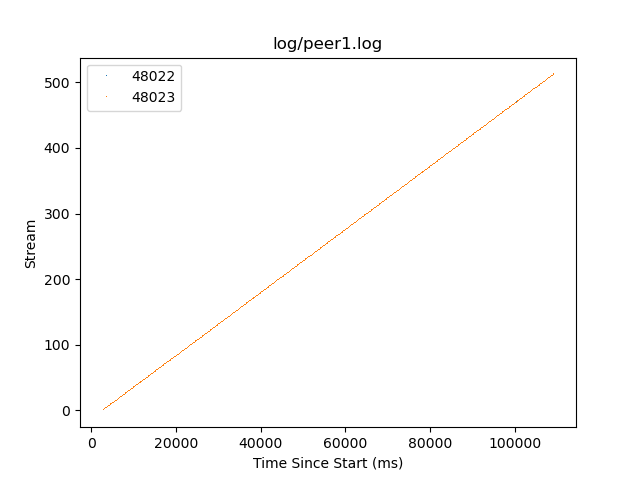
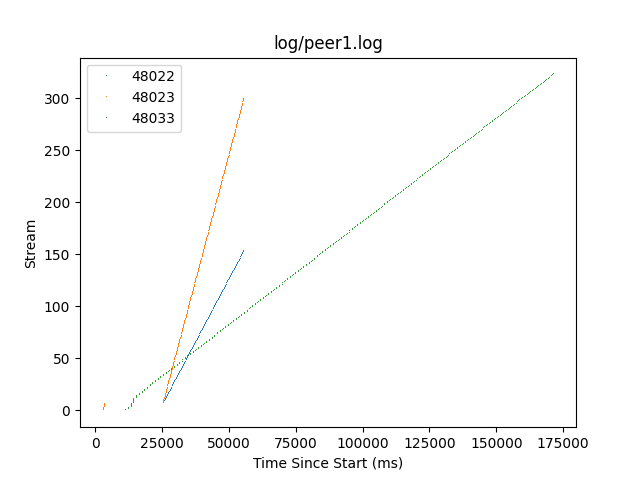
fix: 增加接受窗口，判断要不要收到错误seq

diff --git a/src/peer.py b/src/peer.py
@@ -265,16 +265,21 @@ def process_inbound_udp(sock: SimSocket):
 
 
     elif packet_type == PeerPacketType.DATA:
-        # received a DATA pkt
-        ex_downloading_chunkhash = this_peer_state.cur_connection.ex_downloading_chunkhash
-        ex_received_chunk[ex_downloading_chunkhash] += data
-        LOGGER.debug(f"current mission length {len(ex_received_chunk[ex_downloading_chunkhash])}")
 
         # send back ACK
         ack_pkt = struct.pack("!HBBHHII", 52305, MY_TEAM, 4,
                               HEADER_LEN, HEADER_LEN, 0, peer_packet.seq_num)
         sock.sendto(ack_pkt, from_addr)
+
         this_peer_state.cur_connection.last_receive_time = time.time()
+
+        receiving_wnd = this_peer_state.cur_connection.receiving_wnd
+        if not receiving_wnd.try_receive(peer_packet.seq_num): return  # ACK是后面或者前面的。
+
+        # received a DATA pkt
+        ex_downloading_chunkhash = this_peer_state.cur_connection.ex_downloading_chunkhash
+        ex_received_chunk[ex_downloading_chunkhash] += data
+        LOGGER.debug(f"current mission length {len(ex_received_chunk[ex_downloading_chunkhash])}")
 
         # see if finished
         # todo 继续 send who has

diff --git a/src/peer_state.py b/src/peer_state.py
@@ -1,6 +1,7 @@
 from peer_constant import BUF_SIZE, CHUNK_DATA_SIZE, HEADER_LEN, MAX_PAYLOAD, MY_TEAM
 from congestion_controller import *
 from sending_window import *
+from src.receiving_window import TcpReceivingWindow
 from util.bt_utils import BtConfig
 
 
@@ -74,6 +75,8 @@ class TcpLikeConnection:
         timeout_estimator = TimeoutEstimator() if config.timeout is None else TimeoutEstimator(init_rtt=config.timeout,
                                                                                                fixed_timeout=True)
         self.sending_wnd = TcpSendingWindow(timeout_estimator=timeout_estimator)
+
+        self.receiving_wnd = TcpReceivingWindow()
 
         self.last_receive_time = 0
 

diff --git a/src/receiving_window.py b/src/receiving_window.py
@@ -1,0 +1,10 @@
+class TcpReceivingWindow:
+    def __init__(self):
+        self.ack = 1  # 第一个DATA包是1
+
+    def try_receive(self, seq):
+        if seq == self.ack:
+            self.ack += 1
+            return True
+        else:
+            return False
